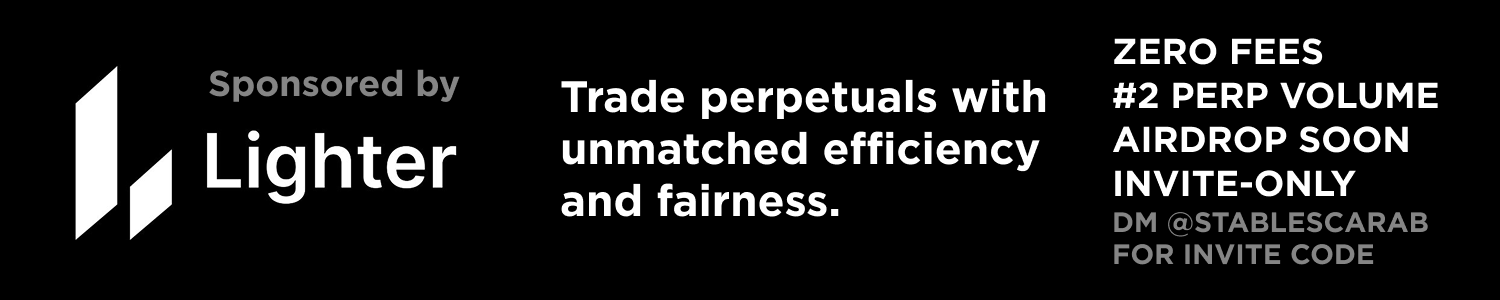
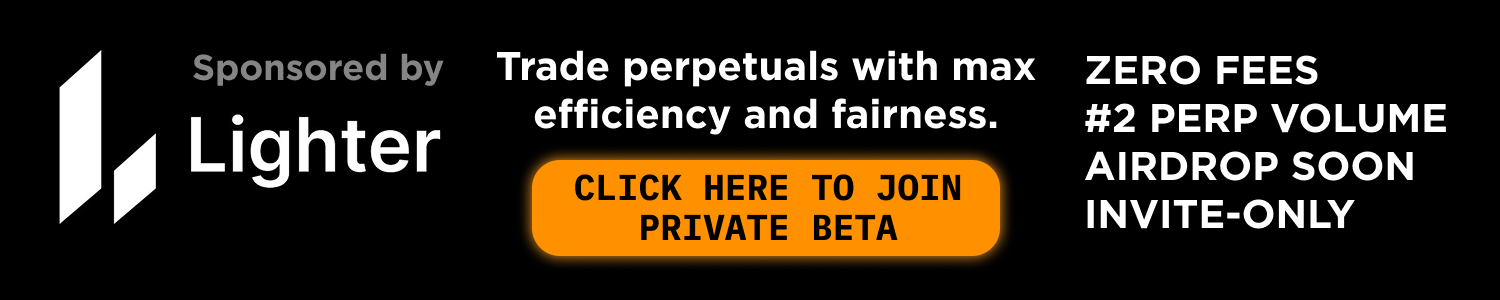
Make Lighter sponsor ad clickable with referral link
- Wrap all three ad placements (desktop, medium, mobile) with anchor tags
- Link to https://app.lighter.xyz/trade/BTC?referral=EAG2CXLJVQBU
- Update LIGHTER_AD.png with new design
- Opens in new tab with proper security attributes

🤖 Generated with [Claude Code](https://claude.ai/code)

diff --git a/app/components/Dashboard.tsx b/app/components/Dashboard.tsx
@@ -302,28 +302,41 @@ export const Dashboard: React.FC = () => {
               
               {/* Desktop Sponsor Ad - Spans upward into first row without affecting spacing */}
               <div className="hidden xl:flex justify-center items-end flex-1 px-4 relative">
-                <Image 
-                  src="/LIGHTER_AD.png" 
-                  alt="Lighter - Trade perpetuals with unmatched efficiency and fairness. Zero fees, #2 perp volume airdrop soon. Invite-only." 
-                  width={552} 
-                  height={60} 
-                  className="h-16 2xl:h-20 w-auto max-w-full object-contain absolute bottom-0 transform translate-y-1 2xl:translate-y-2"
-                  priority
-                />
+                <a 
+                  href="https://app.lighter.xyz/trade/BTC?referral=EAG2CXLJVQBU" 
+                  target="_blank" 
+                  rel="noopener noreferrer"
+                  className="absolute bottom-0 transform translate-y-1 2xl:translate-y-2"
+                >
+                  <Image 
+                    src="/LIGHTER_AD.png" 
+                    alt="Lighter - Trade perpetuals with unmatched efficiency and fairness. Zero fees, #2 perp volume airdrop soon. Invite-only." 
+                    width={552} 
+                    height={60} 
+                    className="h-16 2xl:h-20 w-auto max-w-full object-contain"
+                    priority
+                  />
+                </a>
                 {/* Invisible spacer to maintain row height */}
                 <div className="h-6 w-full opacity-0"></div>
               </div>
               
               {/* Medium screens ad - larger version */}
               <div className="hidden md:flex xl:hidden justify-center flex-1 px-2">
-                <Image 
-                  src="/LIGHTER_AD.png" 
-                  alt="Lighter - Trade perpetuals with unmatched efficiency and fairness. Zero fees, #2 perp volume airdrop soon. Invite-only." 
-                  width={552} 
-                  height={60} 
-                  className="h-20 lg:h-24 w-auto max-w-full object-contain"
-                  priority
-                />
+                <a 
+                  href="https://app.lighter.xyz/trade/BTC?referral=EAG2CXLJVQBU" 
+                  target="_blank" 
+                  rel="noopener noreferrer"
+                >
+                  <Image 
+                    src="/LIGHTER_AD.png" 
+                    alt="Lighter - Trade perpetuals with unmatched efficiency and fairness. Zero fees, #2 perp volume airdrop soon. Invite-only." 
+                    width={552} 
+                    height={60} 
+                    className="h-20 lg:h-24 w-auto max-w-full object-contain"
+                    priority
+                  />
+                </a>
               </div>
               
               <div className="flex items-center space-x-4 flex-shrink-0">
@@ -528,14 +541,21 @@ export const Dashboard: React.FC = () => {
 
       {/* Mobile Sponsor Ad - Outside header container for full width */}
       <div className="md:hidden bg-gray-900 border-b border-gray-800 py-4">
-        <Image 
-          src="/LIGHTER_AD.png" 
-          alt="Lighter - Trade perpetuals with unmatched efficiency and fairness. Zero fees, #2 perp volume airdrop soon. Invite-only." 
-          width={1000} 
-          height={120} 
-          className="h-24 sm:h-28 w-screen object-contain"
-          priority
-        />
+        <a 
+          href="https://app.lighter.xyz/trade/BTC?referral=EAG2CXLJVQBU" 
+          target="_blank" 
+          rel="noopener noreferrer"
+          className="block"
+        >
+          <Image 
+            src="/LIGHTER_AD.png" 
+            alt="Lighter - Trade perpetuals with unmatched efficiency and fairness. Zero fees, #2 perp volume airdrop soon. Invite-only." 
+            width={1000} 
+            height={120} 
+            className="h-24 sm:h-28 w-screen object-contain"
+            priority
+          />
+        </a>
       </div>
 
       {/* Favorites Bar */}
